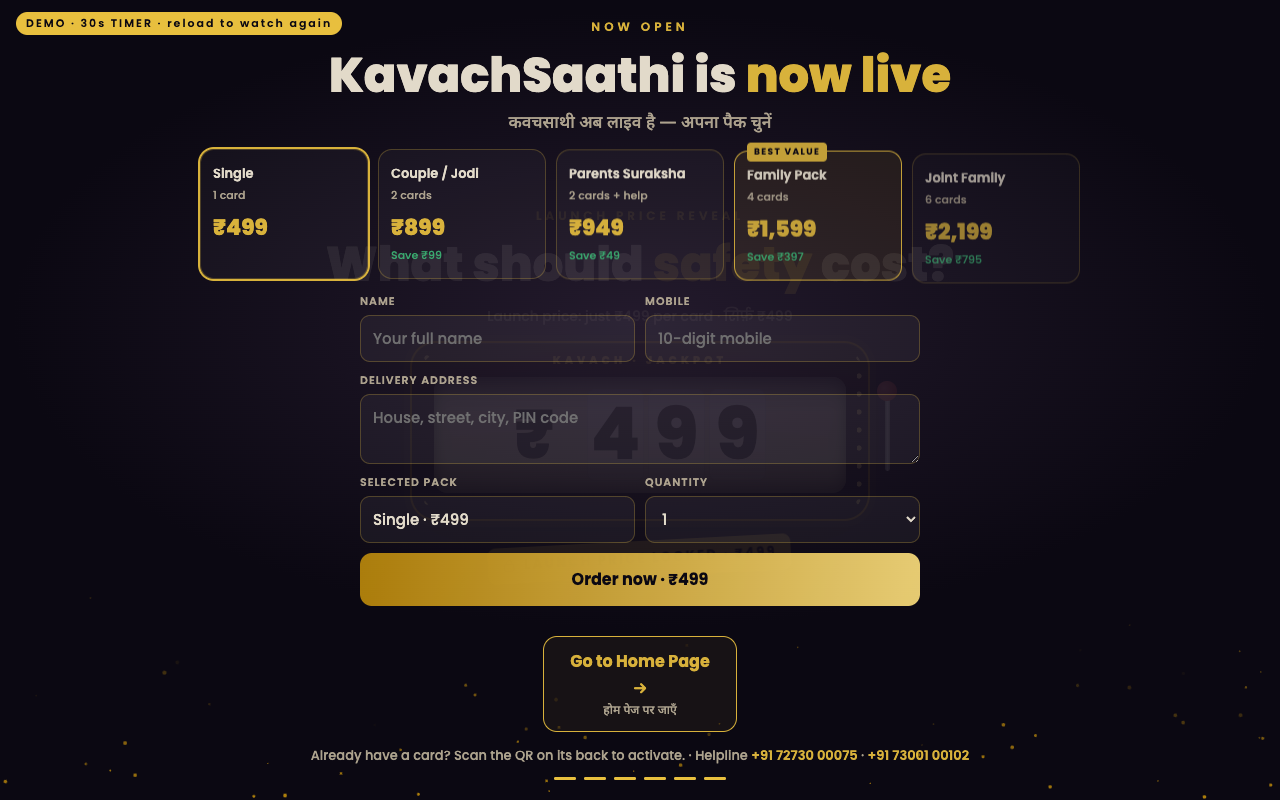
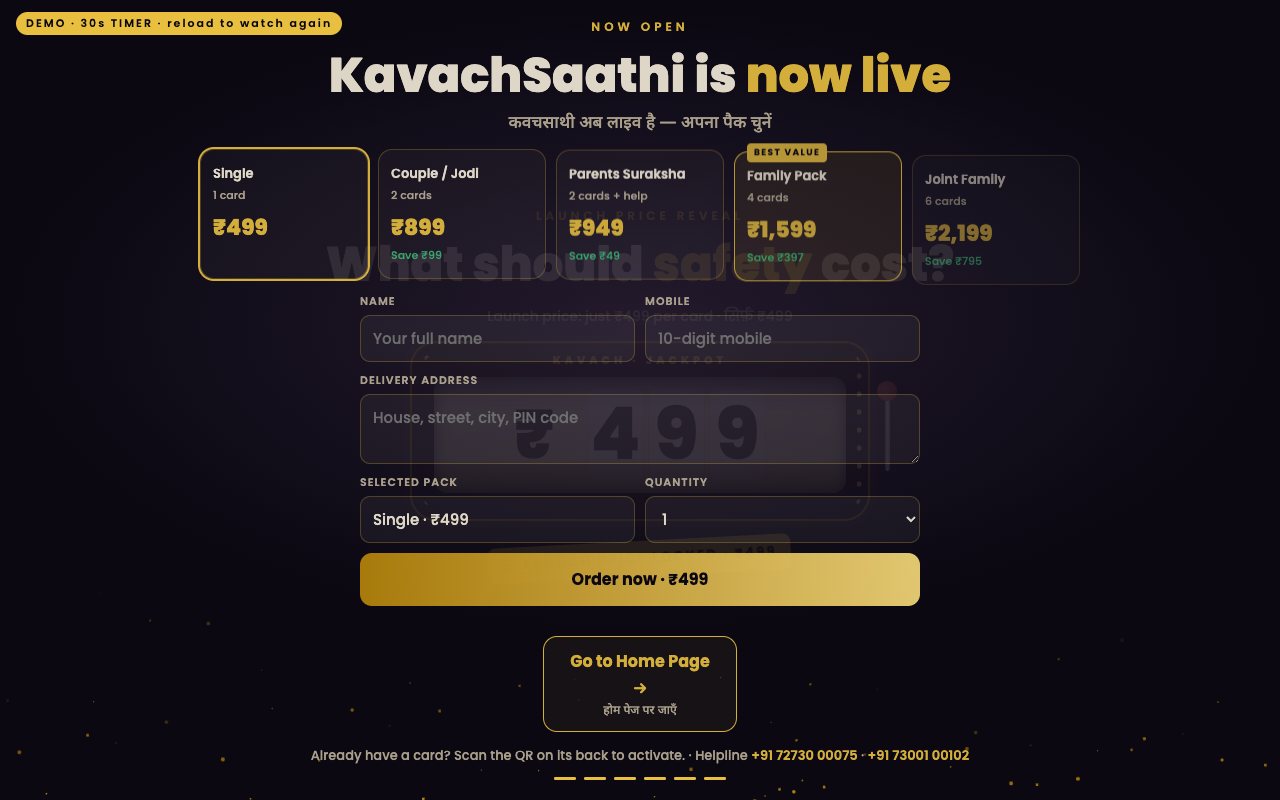
Lock launch reveal as production final with screenshots.

Changed region(s): [[0.5625, 0.1562, 0.6562, 0.3438], [0.7188, 0.2188, 0.7812, 0.3438]]

diff --git a/exports/launch-reveal/FINAL.md b/exports/launch-reveal/FINAL.md
@@ -1,0 +1,23 @@
+# Launch Reveal — FINAL (locked)
+
+**Status:** production final · do not tweak timings/visuals without owner sign-off
+
+| | |
+|---|---|
+| Commit | `5840685` |
+| Deploy | `6ac790d66d383f8762c77840` |
+| Rollback | `6ac78fccee85dad2dae943ff` |
+| Live | https://kavachsaathi.in |
+| Owner replay | https://kavachsaathi.in/?replayLaunch=1 |
+
+## Locked behaviour
+- Auto playback, no Skip/Next/Replay
+- Launch day only: **11 Oct 2026, 12:00–23:59 IST**, once per browser
+- Never on `/card/*` and other protected routes
+- Price scene = gold **KAVACH · JACKPOT** slot (no MRP / was / original)
+- Spins: sharp digits, no blur overlay; ₹499 land + stamp
+- Order → Firestore `orders`; **Go to Home** ends reveal + marks seen
+- `?replayLaunch=1` owner-only before/after launch
+
+## Screenshots
+`01`–`07` (reference timing) · `live-01` / `live-05` / `live-07` · `reference.html`
